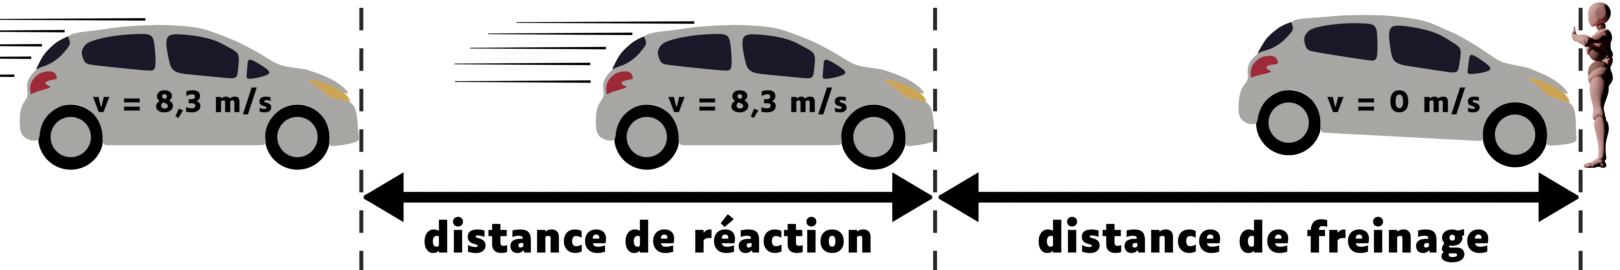
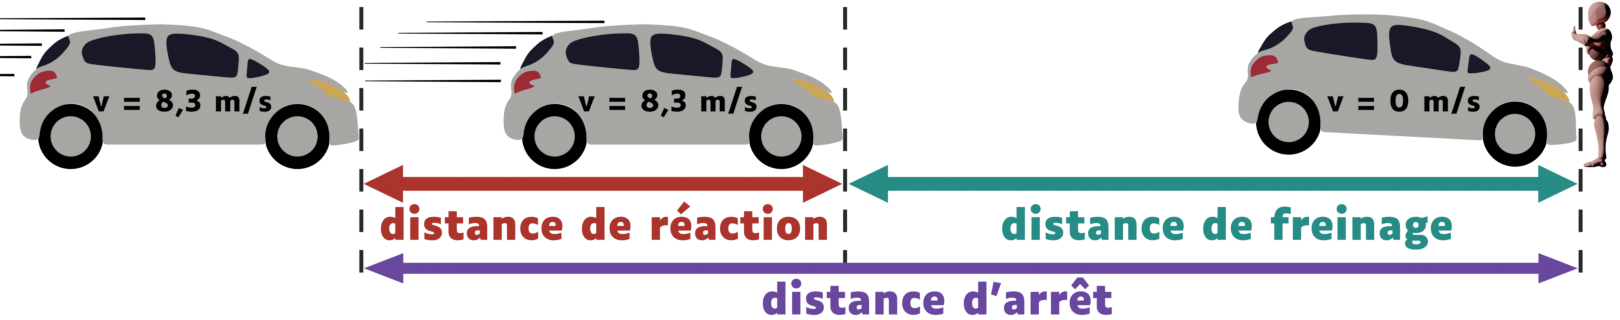
Updates from Overleaf

diff --git a/stssPremiere/securite_routiere/A1_accident_freinage.tex b/stssPremiere/securite_routiere/A1_accident_freinage.tex
@@ -29,38 +29,39 @@
   \end{center}
   \begin{importants}
     \begin{listePoints}
-      \item La \important{distance de réaction} est la distance que parcourt un véhicule entre le moment où la conductrice voit l'obstacle et quand elle commence à freiner.
-      \item La \important{distance de freinage} est la distance que parcourt un véhicule entre le moment où la conductrice commence à freiner et quand le véhicule est à l'arrêt.
-      \item La \important{distance d'arrêt} est simplement la somme de ces deux distances.
+      \item La \important{distance de réaction $d_R$} est la distance que parcourt un véhicule entre le moment où la conductrice voit l'obstacle et quand elle commence à freiner.
+      \item La \important{distance de freinage $d_F$} est la distance que parcourt un véhicule entre le moment où la conductrice commence à freiner et quand le véhicule est à l'arrêt.
+      \item La \important{distance d'arrêt $d_A$} est simplement la somme de ces deux distances $d_A = d_R + d_F$.
     \end{listePoints}
     
     Le \important{temps de réaction} $t_R$ d'un-e humain-e est de \qty{1,0}{\s} en moyenne.
-    On peut calculer la distance de réaction $d_R$ à partir du temps de réaction $t_R$ et de la vitesse du véhicule $v$ :
-    \begin{equation*}
-      d_R = t_R \times v
-    \end{equation*}
+    La distance de réaction $d_R$ se calcule à partir du temps de réaction $t_R$ et de la vitesse du véhicule $v$ : $d_R = t_R \times v$.
   \end{importants}
   
   \centering 
   \begin{tblr}{
-    colspec = {l c c c c c}, vlines, hlines, column{1} = {couleurSec-100}
+    colspec = {lccccc}, vlines, hlines,
+    column{1} = {couleurSec-50}, row{1} = {couleurSec-100}
   }
     Vitesse $v$ (\unit{\km\per\hour})
     & 40 & 80 & 90 & 110 & 130 \\
     %
-    Distance de réaction $d_R$ (\unit{\m})
-    & 11,1 & & 25,0 & 30,6 & \\
+    Vitesse $v$ (\unit{\m\per\s})
+    & 11,1 & 22,2 & & & \\
     %
-    Distance de freinage $d_F$ sur sol sec (\unit{\m})
+    $d_R$ (\unit{\m})
+    & 11,1 & & 25,0 & & \\
+    %
+    $d_F$ sur sol sec (\unit{\m})
     & 10,3 & & 52,0 & 78,1 & 108,5 \\
     %
-    Distance d'arrêt $d_A$ sur sol sec (\unit{\m})
-    & 21,4 & 63,4 & & 108,7 & 144,6 \\
-    %
-    Distance de freinage $d_F$ sur sol mouillé (\unit{\m})
+    $d_F$ sur sol mouillé (\unit{\m})
     & 15,0 & 59,9 & 75,9 & & 158,4 \\
     %
-    Distance d'arrêt $d_A$ sur sol mouillé (\unit{\m})
+    $d_A$ sur sol sec (\unit{\m})
+    & 21,4 & 63,4 & & 108,7 & 144,6 \\
+    %
+    $d_A$ sur sol mouillé (\unit{\m})
     & & & & 144,6 & \\
     %
   \end{tblr}
@@ -70,25 +71,25 @@
 Compléter le tableau du document~\ref{doc:A1_distances_arret}
 
 \question{
-  Dans le tableau l'état du sol n'est pas indiqué pour la distance de réaction $d_R$, pourquoi ?
-}{}{2}
+  Expliquer pourquoi l'état du sol n'est pas indiqué pour la distance de réaction $d_R$.
+}{}[2]
 
 \question{
-  Indiquer si la voiture va s'arrêter avant de percuter l'enfant.
-}{}{2}
+  Indiquer si la voiture va s'arrêter avant de percuter l'enfant, sur sol sec ou mouillé.
+}{}[2]
 
 \newpage
-\vspace*{-36pt}
+\vspace*{-30pt}
 \question{
   Est-ce que la distance de freinage est doublée quand la vitesse du véhicule est doublée ?
-}{}{2}
+}{}[2]
 
 \mesure
 À la main ou à l'aide d'un logiciel, tracer la distance de freinage en fonction de la vitesse au carré $v^2$, après avoir converti la vitesse en \unit{\m\per\s}.
 
 \question{
   Est-ce que $v^2$ et $d_F$ sont deux grandeurs proportionnelles ?
-}{}{2}
+}{}[2]
 
 
 %%%%

diff --git a/_tableau_periodique.tex b/_tableau_periodique.tex
@@ -23,7 +23,7 @@
   \begin{minipage}{\largeurCaseTableauPeriodique cm}
     \begin{center}
       {\Large \important[black]{#1} \\[2pt]} % symbole atomique
-      {\footnotesize $\chi = $\num{#2}} % électronégativité
+      {\small $\chi = \num{#2}$} % électronégativité
     \end{center}
   \end{minipage}
 }
@@ -33,43 +33,29 @@
 %% #1 : largeur ; #2 : hauteur ; #3 : élements
 \NewDocumentCommand{\tableauPeriodique}{O{2.6} O{2.7} m}{
 \begin{tikzpicture}[font=\sffamily, scale=0.75, transform shape]
-  
-%% Couleur de remplissage
-  \tikzstyle{jauneClair}  = [fill=yellow!30]
-  \tikzstyle{jaune}       = [fill=yellow!45]
-  \tikzstyle{jauneFonce}  = [fill=yellow!60]
-  \tikzstyle{rougeClair}  = [fill=red!20]
-  \tikzstyle{rouge}       = [fill=red!35]
-  \tikzstyle{rougeFonce}  = [fill=red!50]
-  \tikzstyle{orangeClair} = [fill=orange!30]
-  \tikzstyle{orange}      = [fill=orange!45]
-  \tikzstyle{orangeFonce} = [fill=orange!60]
-  \tikzstyle{vertClair}   = [fill=vertSapin!20]
-  \tikzstyle{vert}        = [fill=vertSapin!35]
-  \tikzstyle{vertFonce}   = [fill=vertSapin!50]
-  
+
 %% Type d'élément, par famille
-  \tikzstyle{Alcali} = [Element, vertFonce]
-  \tikzstyle{Alcalo} = [Element, vert]
-  \tikzstyle{Metaux} = [Element, vertClair]
-  \tikzstyle{Metoid} = [Element, orangeClair]
-  \tikzstyle{NoMeta} = [Element, orange]
-  \tikzstyle{Haloge} = [Element, orangeFonce]
-  \tikzstyle{GazRar} = [Element, rouge]
+  \tikzstyle{Alcali} = [Element, fill=green-200]
+  \tikzstyle{Alcalo} = [Element, fill=green-150]
+  \tikzstyle{Metaux} = [Element, fill=green-100]
+  \tikzstyle{Metoid} = [Element, fill=orange-100]
+  \tikzstyle{NoMeta} = [Element, fill=orange-150]
+  \tikzstyle{Haloge} = [Element, fill=orange-200]
+  \tikzstyle{GazRar} = [Element, fill=red-150]
 
 %% Type d'élément, par électronégativité
- \tikzstyle{elec1} = [Element, vertClair]
- \tikzstyle{elec2} = [Element, vert]
- \tikzstyle{elec3} = [Element, jaune]
- \tikzstyle{elec4} = [Element, orangeClair]
- \tikzstyle{elec5} = [Element, orange]
- \tikzstyle{elec6} = [Element, orangeFonce]
- \tikzstyle{elec7} = [Element, rouge]
- \tikzstyle{elec8} = [Element, rougeFonce]
+ \tikzstyle{elec1} = [Element, fill=green-50]
+ \tikzstyle{elec2} = [Element, fill=green-100]
+ \tikzstyle{elec3} = [Element, fill=yellow-100]
+ \tikzstyle{elec4} = [Element, fill=orange-100]
+ \tikzstyle{elec5} = [Element, fill=orange-150]
+ \tikzstyle{elec6} = [Element, fill=orange-200]
+ \tikzstyle{elec7} = [Element, fill=red-200]
+ \tikzstyle{elec8} = [Element, fill=red-300]
   
 %% Style des éléments
   \tikzstyle{Element} = [
-    draw=black, jaune,
+    draw=black, cyan-800!50!black,
     minimum width  = #1 cm, % Largeur de la case
     node distance  = #1 cm, % Espace entre deux case
     minimum height = #2 cm, % Hauteur de la case

diff --git a/stssPremiere/biomolecule_organisme/A1_polarite_eau.tex b/stssPremiere/biomolecule_organisme/A1_polarite_eau.tex
@@ -65,10 +65,10 @@
 
 
 \begin{doc}{La molécule H$_2$O}{doc:A1_molecule_eau} 
-  \begin{wrapfigure}[3]{l}{0.25\linewidth}
+  \begin{wrapfigure}[3]{l}{0.3\linewidth}
     \centering
     \vspace*{-22pt}
-    \image{1}{images/molecules/eau_polarite}
+    \image{0.8}{images/molecules/eau_polarite}
   \end{wrapfigure}
   \phantom{b}\vspace*{-20pt}
     
@@ -93,7 +93,7 @@
   Contrairement aux liaisons covalentes, les liaisons hydrogènes sont représentées en pointillés.
 
   \begin{importants}  
-    Pour les molécules du vivant, les liaisons hydrogène se forment quasiment toujours avec des groupes hydroxyle \chemfig{HO-C...} ou des groupe carbo \chemfig{O=C...}.
+    Pour les molécules du vivant, les liaisons hydrogène se forment quasiment toujours avec des groupes hydroxyle \chemfig{HO-C...} ou sur des groupes carbo \chemfig{O=C...}.
   \end{importants}
   C'est parce que l'électronégativité du carbone et de l'oxygène sont différentes
   ($\chi(O) - \chi(C) > 0,4$),
@@ -103,7 +103,7 @@
 \begin{doc}{Solubilité}{doc:A1_solubilité}
   \begin{listePoints}
     \item Un solvant est \important{polaire} s'il est composé de molécules polaires : l'eau est un solvant polaire.
-    \item Un solvant est \important{apolaire} s'il n'est pas composé de molécules polaires : l'huile est un solvant apolaire.
+    \item Un solvant est \important{apolaire} s'il n'est pas composé de molécules polaires : l'huile est apolaire.
   \end{listePoints}
   Les solides polaires et ioniques se dissolvent facilement dans les solvants polaires, car des liaisons hydrogènes se forment entre les éléments du solide et les molécules du solvant, ce qui le dissout.
 
@@ -111,33 +111,34 @@
 \end{doc}
 
 \begin{doc}{Glucose et oléine}{doc:A1_glucose_oleine}
-  \begin{multicols}{2}
+  \separationBlocs{
     \centering
-    %% glucose linéaire
     {\small
       \chemfig[atom sep = 1.5em]{!\glucose}
     } \\[6pt]
     \legende{Molécule de glucose}
-
+  }{
+    \vspace*{-20pt}
+    \centering
     {\small
-      \chemfig[atom sep = 2.0em]{!\trioleineSemiDev}
+      \chemfig[atom sep = 1.0em]{[:-60]!\oleine}
     } \\[6pt]
-    \legende{Molécule d'oléine}
+    \legende{Molécule de trioléine}
     %
-  \end{multicols}
+  }
 \end{doc}
 
 \question{
-  En s'aidant de l'exemple donné avec la molécule d'eau, montrer que la molécule de glucose est polaire.
-}{}{2}
+  En s'aidant du document~\ref{doc:A1_liaison_hydrogene}, montrer que la molécule de glucose est polaire.
+}{}[2]
 
 \question{
   Est-ce que la trioléine, qui compose l'huile d'olive, est polaire ?
-}{}{1}
+}{}[2]
 
 \question{
   Expliquer pourquoi le sucre se mélange avec l'eau, mais pas l'huile d'olive.
-}{}{2}
+}{}[2]
 
 
 \begin{doc}{Stockage des nutriments}{doc:A1_stockage}

diff --git a/stssPremiere/securite_routiere/A2_energie_cinetique.tex b/stssPremiere/securite_routiere/A2_energie_cinetique.tex
@@ -65,35 +65,34 @@
 
 \question{
   Expliquer pourquoi le freinage permet de réduire l'énergie de déformation pendant une collision.
-}{}{3}
+}{}[3]
 
 \question{
   Convertir \qty{30}{\km\per\hour} en \unit{\m\per\s}.
-}{}{2}
+}{}[2]
 
 \question{
   Calculer l'énergie cinétique d'une cycliste roulant à une vitesse de \qty{30}{\km\per\hour}.
-}{}{2}
+}{}[2]
 
 \question{
   Calculer l'énergie cinétique d'un automobiliste roulant à une vitesse de \qty{30}{\km\per\hour}.
-}{}{2}
+}{}[2]
 
 \question{
   Entre la cycliste et l'automobiliste, qui représente le plus grand danger a priori ?
-}{}{2}
-*
+}{}[2]
 
 \begin{doc}{Égalité des énergies cinétiques}{doc:A2_egalite_cinetique}
   En négligeant la forme d'une voiture et d'un vélo, pour que la cycliste soit aussi dangereuse que l'automobiliste, il faudrait que les deux aient la même énergie cinétiques.
   
-  Pour ça la cycliste devrait avoir une vitesse :
+  Pour ça, la cycliste devrait avoir une vitesse :
   \begin{equation*}
     v_\text{vélo} = \sqrt{\dfrac{m_\text{auto}}{m_\text{vélo}}} v_\text{auto}
   \end{equation*}
 \end{doc}
 
 \question{
-  Calculer la vitesse que devrait avoir une cycliste pour avoir la même énergie cinétique que l'automobiliste qui roule à \qty{30}{\km\per\hour}.
-  Commenter.
-}{}{3}
+  Calculer la vitesse que devrait avoir une cycliste pour avoir la même énergie cinétique qu'un automobiliste qui roule à \qty{30}{\km\per\hour}.
+  Est-ce une vitesse facilement atteignable ?
+}{}[3]

diff --git a/_chapitres.tex b/_chapitres.tex
@@ -54,8 +54,8 @@
 \newcommand{\tetePremStssLumi} {\enTete[\premStss]{\chapitre{\premStssLumi}}[4]}
 \newcommand{\tetePremStssOrga} {\enTete[\premStss]{\chapitre{\premStssOrga}}[5]}
 \newcommand{\tetePremStssBiol} {\enTete[\premStss]{\chapitre{\premStssBiol}}[6]}
-\newcommand{\tetePremStssBiom} {\enTete[\premStss]{\chapitre{\premStssBiom}}[7]}
-\newcommand{\tetePremStssRout} {\enTete[\premStss]{\chapitre{\premStssRout}}[8]}
+\newcommand{\tetePremStssRout} {\enTete[\premStss]{\chapitre{\premStssRout}}[7]}
+\newcommand{\tetePremStssBiom} {\enTete[\premStss]{\chapitre{\premStssBiom}}[8]}
 \newcommand{\tetePremStssAlim} {\enTete[\premStss]{\chapitre{\premStssAlim}}[9]}
 \newcommand{\tetePremStssElec} {\enTete[\premStss]{\chapitre{\premStssElec}}[10]}
 \newcommand{\tetePremStssPres} {\enTete[\premStss]{\chapitre{\premStssPres}}[11]}

diff --git a/main.tex b/main.tex
@@ -3,8 +3,8 @@
 %%%% paramètres généraux et commandes prédéfinies
 \input{_parametres}
 % \geometry{a4paper, landscape}
-\geometry{a5paper, left=1cm, right=1cm, top=0.8cm, bottom=2cm} % format A5
-\modeCorrection % correction (décommenté)
+% \geometry{a5paper, left=1cm, right=1cm, top=0.8cm, bottom=2cm} % format A5
+% \modeCorrection % correction (décommenté)
 
 %%%% pour l'en-tête
 \renewcommand{\etablissement}{Lycée Jean Moulin}
@@ -49,7 +49,7 @@
   %% Terminale ST2S
   % \input{preparationTP/stssTerminale/dosage_lait}
   % \input{preparationTP/stssTerminale/echographie}
-  \input{preparationTP/stssTerminale/bougie}
+  % \input{preparationTP/stssTerminale/bougie}
 
   
   %%%% Cours et activités

diff --git a/stssPremiere.tex b/stssPremiere.tex
@@ -54,4 +54,4 @@
 % \inclusActivite[2]{stssPremiere/molecules_interet_biologique/TP_vitamines}
 
 %% Organisme et biomolécules
-% \inclusActivite[1]{stssPremiere/organisme_biomol/A1_polarite_eau}
+\inclusActivite[1]{stssPremiere/biomolecule_organisme/A1_polarite_eau}
